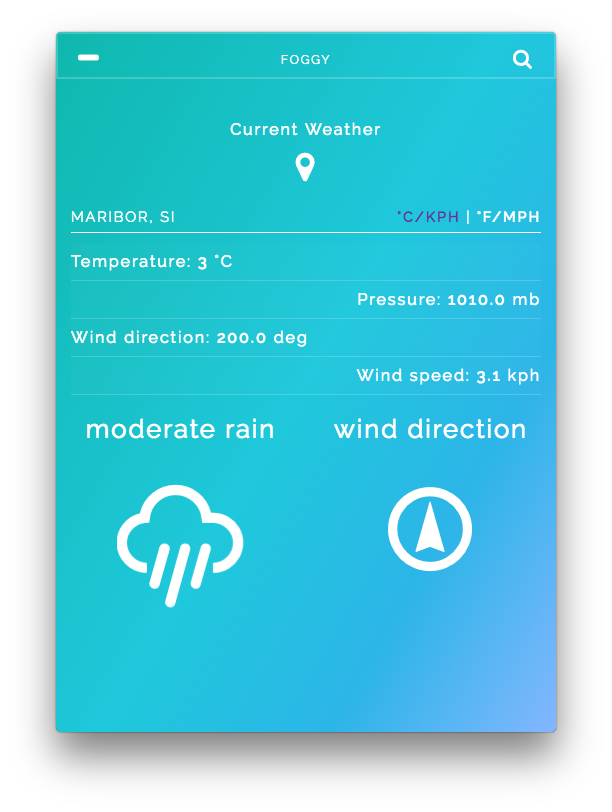
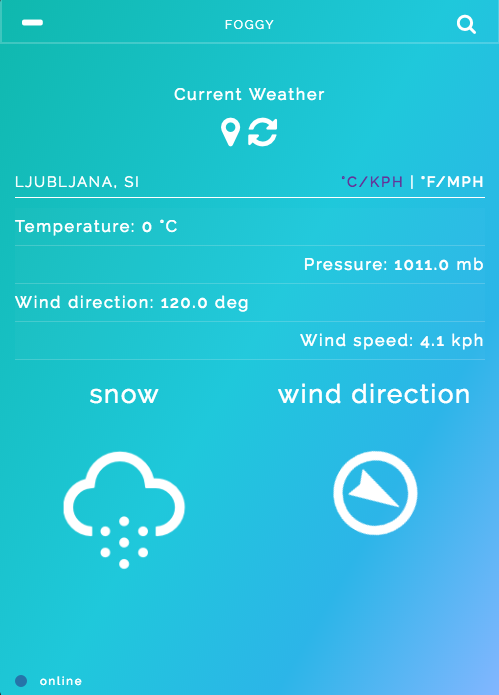
Electron update + added a connection status checker and auto weather info refresher

diff --git a/js/main.js b/js/main.js
@@ -2,30 +2,81 @@ window.$ = window.jQuery = require('jquery');
 var toastr = require('toastr');
 const ipc = require('electron').ipcRenderer
 var refresherInterval;
+var connectionCheck;
+
+window.ononline = function () {
+    $("#statusDot").removeClass('statusOffline');
+    $("#statusDescription").html("online");
+}
+window.onoffline = function () {
+    $("#statusDot").addClass('statusOffline');
+    $("#statusDescription").html("offline");
+}
 
 $(document).ready(function () {
-    // toastr options
-    toastr.options.positionClass = 'toast-bottom-center';
-    toastr.options.timeOut = 1200;
-    toastr.options.fadeOut = 250;
-    toastr.options.fadeIn = 250;
-    toastr.options.closeDuration = 300;
-    toastr.options.showDuration = 300;
-    toastr.options.preventDuplicates = true;
-    toastr.options.progressBar = true;
-
-    //DOM calls
-    theDomManipulator.fadeInIntro(1300);
-    theDomManipulator.initOverlay();
-    theDomManipulator.changeMetrics();
-    theDomManipulator.exitApp();
-
-    //weather API calls
-    theWeatherApiCaller.getLocationBasedWeather();
-    theWeatherApiCaller.locationWeatherCaller();
-    theWeatherApiCaller.cityWeatherCaller();
-    theWeatherApiCaller.refreshWeatherCaller();
+    theAppHelper.checkConnection();
 });
+
+
+/* Main app state helper */
+var theAppHelper = (function () {
+
+    function initApp() {
+
+        // toastr options
+        toastr.options.positionClass = 'toast-bottom-center';
+        toastr.options.timeOut = 1200;
+        toastr.options.fadeOut = 250;
+        toastr.options.fadeIn = 250;
+        toastr.options.closeDuration = 300;
+        toastr.options.showDuration = 300;
+        toastr.options.preventDuplicates = true;
+        toastr.options.progressBar = true;
+
+        //DOM calls
+        theDomManipulator.fadeInIntro(1300);
+        theDomManipulator.initOverlay();
+        theDomManipulator.changeMetrics();
+        theDomManipulator.exitApp();
+
+        //weather API calls
+        theWeatherApiCaller.getLocationBasedWeather();
+        theWeatherApiCaller.locationWeatherCaller();
+        theWeatherApiCaller.cityWeatherCaller();
+        theWeatherApiCaller.refreshWeatherCaller();
+    }
+
+    function checkConnectionStatus() {
+        return navigator.onLine ? true : false;
+    }
+
+    function checkConnection() {
+        if (checkConnectionStatus()) {
+            initApp();
+            $("#statusDot").removeClass('statusOffline');
+            $("#statusDescription").html("online");
+
+        } else {
+            connectionCheck = setInterval(function () {
+                if (navigator.onLine) {
+                    initApp();
+                    $("#statusDot").removeClass('statusOffline');
+                    $("#statusDescription").html("online");
+                    clearInterval(connectionCheck)
+                } else {
+                    $("#statusDot").addClass('statusOffline');
+                    $("#statusDescription").html("offline");
+
+                }
+            }, 1000);
+        }
+    }
+
+    return {
+        checkConnection: checkConnection,
+        checkConnectionStatus: checkConnectionStatus
+    }
+})();
 
 /*
 DOM modifier module
@@ -284,6 +335,7 @@ var theWeatherApiCaller = (function () {
         $("#currWindSpeed").html(ws);
         $("#windDirIcon").removeClass();
         $("#weatherIcon").removeClass();
+        $("#windDirHeading").html("wind direction")
         $("#windDirIcon").addClass("wi wi-wind towards-" + Math.round(wd) + "-deg");
         $("#weatherIcon").addClass("wi wi-owm-" + wc + " animated infinite pulse");
         $("#weatherDescription").html(d);
@@ -295,20 +347,30 @@ var theWeatherApiCaller = (function () {
 
     function cityWeatherCaller() {
         $("#searchButton").click(function () {
-            city = $("#searchInput").val();
-            getCityWeather();
+            if (theAppHelper.checkConnectionStatus()) {
+                city = $("#searchInput").val();
+                getCityWeather();
+            } else {
+                toastr.error("Internet connection not working!")
+            }
         });
     }
 
     function locationWeatherCaller() {
         $("#myLocation").click(function () {
-            getLocationBasedWeather();
+            if (theAppHelper.checkConnectionStatus())
+                getLocationBasedWeather();
+            else
+                toastr.error("Internet connection not working!")
         });
     }
 
     function refreshWeatherCaller() {
         $("#refreshWeather").click(function () {
-            getCityWeather();
+            if (theAppHelper.checkConnectionStatus())
+                getCityWeather();
+            else
+                toastr.error("Internet connection not working!")
         });
     }
 

diff --git a/css/main.css b/css/main.css
@@ -1,14 +1,3 @@
-/* latin-ext */
-
-@font-face {
-    font-family: 'Raleway';
-    font-style: normal;
-    font-weight: 200;
-    src: local('Raleway ExtraLight'), local('Raleway-ExtraLight'), url(font/Raleway) format('ttf');
-    unicode-range: U+0100-024F, U+0259, U+1E00-1EFF, U+20A0-20AB, U+20AD-20CF, U+2C60-2C7F, U+A720-A7FF;
-}
-
-
 /* latin */
 
 @font-face {
@@ -17,17 +6,6 @@
     font-weight: 200;
     src: local('Raleway ExtraLight'), local('Raleway-ExtraLight'), url(font/Raleway) format('ttf');
     unicode-range: U+0000-00FF, U+0131, U+0152-0153, U+02BB-02BC, U+02C6, U+02DA, U+02DC, U+2000-206F, U+2074, U+20AC, U+2122, U+2212, U+2215;
-}
-
-
-/* latin-ext */
-
-@font-face {
-    font-family: 'Raleway';
-    font-style: normal;
-    font-weight: 300;
-    src: local('Raleway Light'), local('Raleway-Light'), url(font/Raleway) format('ttf');
-    unicode-range: U+0100-024F, U+0259, U+1E00-1EFF, U+20A0-20AB, U+20AD-20CF, U+2C60-2C7F, U+A720-A7FF;
 }
 
 
@@ -42,17 +20,6 @@
 }
 
 
-/* latin-ext */
-
-@font-face {
-    font-family: 'Raleway';
-    font-style: normal;
-    font-weight: 400;
-    src: local('Raleway'), local('Raleway-Regular'), url(font/Raleway) format('ttf');
-    unicode-range: U+0100-024F, U+0259, U+1E00-1EFF, U+20A0-20AB, U+20AD-20CF, U+2C60-2C7F, U+A720-A7FF;
-}
-
-
 /* latin */
 
 @font-face {
@@ -61,17 +28,6 @@
     font-weight: 400;
     src: local('Raleway'), local('Raleway-Regular'), url(font/Raleway) format('ttf');
     unicode-range: U+0000-00FF, U+0131, U+0152-0153, U+02BB-02BC, U+02C6, U+02DA, U+02DC, U+2000-206F, U+2074, U+20AC, U+2122, U+2212, U+2215;
-}
-
-
-/* latin-ext */
-
-@font-face {
-    font-family: 'Raleway';
-    font-style: normal;
-    font-weight: 500;
-    src: local('Raleway Medium'), local('Raleway-Medium'), url(font/Raleway) format('ttf');
-    unicode-range: U+0100-024F, U+0259, U+1E00-1EFF, U+20A0-20AB, U+20AD-20CF, U+2C60-2C7F, U+A720-A7FF;
 }
 
 
@@ -83,17 +39,6 @@
     font-weight: 500;
     src: local('Raleway Medium'), local('Raleway-Medium'), url(font/Raleway) format('woff2');
     unicode-range: U+0000-00FF, U+0131, U+0152-0153, U+02BB-02BC, U+02C6, U+02DA, U+02DC, U+2000-206F, U+2074, U+20AC, U+2122, U+2212, U+2215;
-}
-
-
-/* latin-ext */
-
-@font-face {
-    font-family: 'Raleway';
-    font-style: normal;
-    font-weight: 600;
-    src: local('Raleway SemiBold'), local('Raleway-SemiBold'), url(font/Raleway) format('woff2');
-    unicode-range: U+0100-024F, U+0259, U+1E00-1EFF, U+20A0-20AB, U+20AD-20CF, U+2C60-2C7F, U+A720-A7FF;
 }
 
 
@@ -116,6 +61,9 @@ body {
     color: #fff;
     font-size: 1em;
     background: #fff;
+    -webkit-font-feature-settings: "liga" 0, "clig" 0;
+    -moz-font-feature-settings: "liga" 0, "clig" 0;
+    font-feature-settings: "liga" 0, "clig" 0;
 }
 
 #aboutSection {
@@ -333,6 +281,31 @@ h5 {
 
 .paddMe {
     padding-bottom: 50px;
+}
+
+.connectionStatus {
+    position: absolute;
+    bottom: 0px;
+}
+
+.statusOffline {
+    background: #F22613 !important;
+}
+
+#statusDot {
+    display: inline-block;
+    width: 12px;
+    height: 12px;
+    border-radius: 50%;
+    background: #2574A9;
+}
+
+#statusDescription {
+    display: inline-block;
+    font-size: 0.7em;
+    left: 25px;
+    position: relative;
+    bottom: 6px;
 }
 
 #unitSwitch {

diff --git a/index.html b/index.html
@@ -98,18 +98,25 @@
                         <div class="row text-center">
                             <div class="col-sm-6 col-md-6 col-xs-6 col-lg-6">
                                 <div class="paddMe">
-                                    <h2 id="weatherDescription">Clear</h2>
+                                    <h2 id="weatherDescription"></h2>
                                     <i id="weatherIcon" class="wi animated infinite pulse"></i>
                                 </div>
                             </div>
 
                             <div class="col-sm-6 col-md-6 col-xs-6 col-lg-6">
                                 <div class="paddMe">
-                                    <h2>wind direction</h2>
-                                    <i id="windDirIcon" class="wi wi-wind"></i>
+                                    <h2 id="windDirHeading"></h2>
+                                    <i id="windDirIcon" class=""></i>
                                 </div>
                             </div>
                         </div>
+                    </div>
+                </div>
+            </div>
+            <div class="connectionStatus">
+                <div class="row">
+                    <div class="col-xs-4">
+                        <div id="statusDot"> <span id="statusDescription"></span></div>
                     </div>
                 </div>
             </div>

diff --git a/main.js b/main.js
@@ -59,7 +59,6 @@ function createWindow() {
 
     mainWindow.on('ready-to-show', function () {
         showWindow();
-
     });
 }
 
@@ -92,6 +91,7 @@ function createTrayWindow() {
     tray.on('click', function (event) {
         toggleWindow();
 
+        /* CMD-click --> open developer tools */
         /*if (mainWindow.isVisible() && event.metaKey) {
             mainWindow.openDevTools({
                 mode: 'detach'
